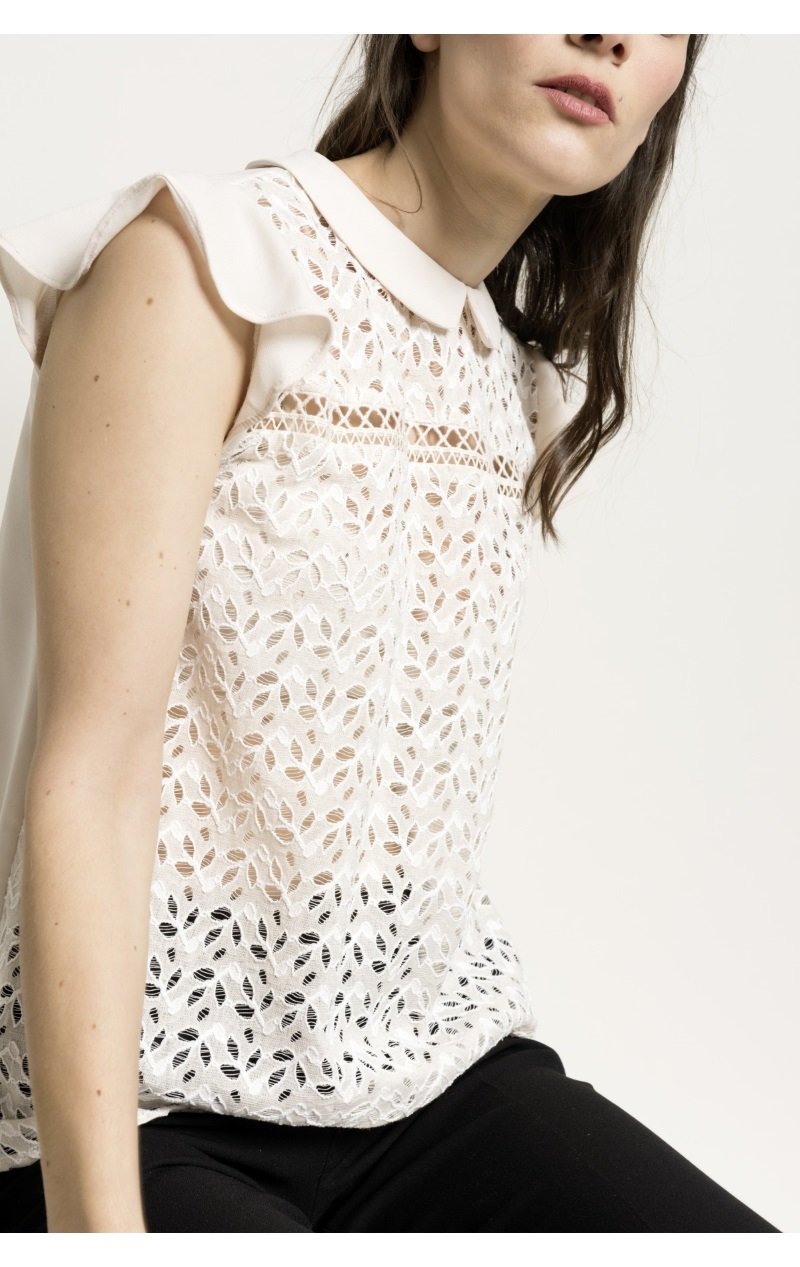
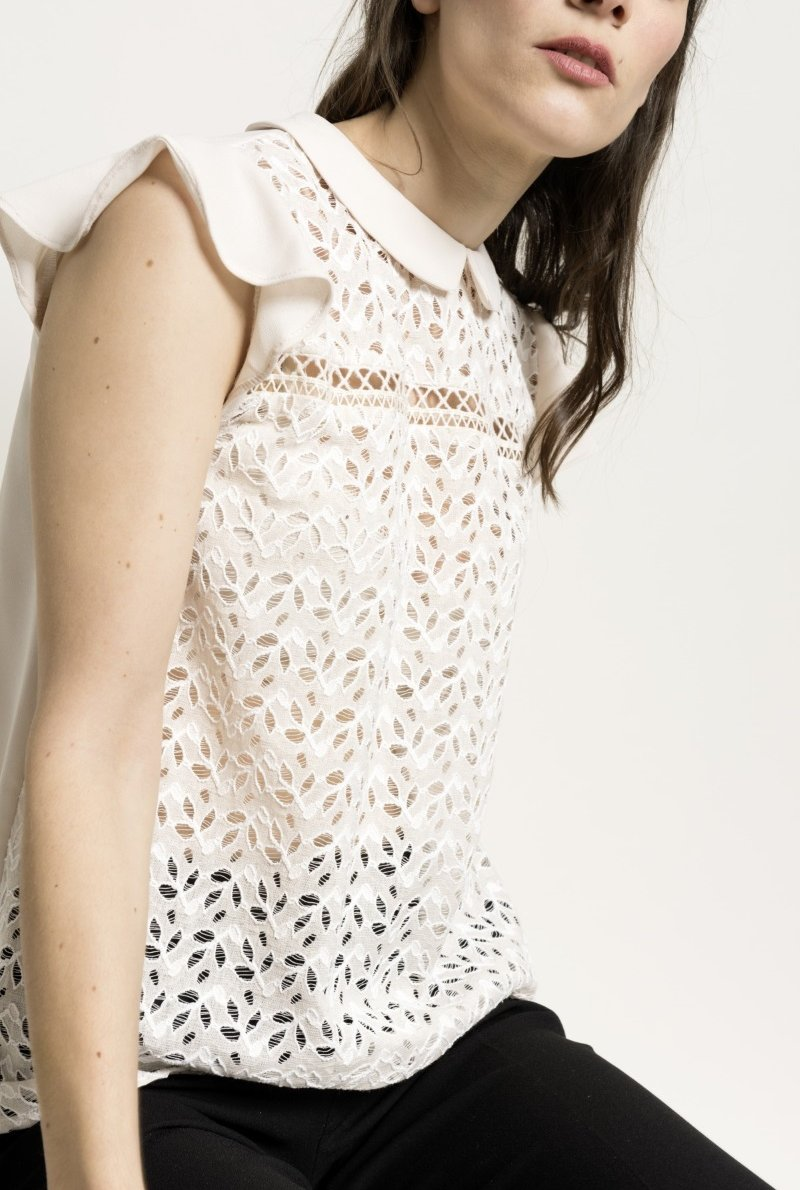
Added grey background to tiles

Changed region(s): [[0.0, 0.0, 0.9688, 1.0], [0.375, 0.4353, 0.4375, 0.4664], [0.0, 0.342, 0.0312, 0.3731]]

diff --git a/_includes/partials/find_item.html b/_includes/partials/find_item.html
@@ -1,6 +1,6 @@
 <div class="grid-item">
   <a href="{{ item.url | relative_url | replace: '/index.html', '' }}">
-    <div style="position; absolute;">
+    <div style="position; absolute; background-color: #fcfcfc;">
       <img src="{{ item.image }}" />
       {% if item.is_in_bag == true %}
         <span class="tag is-warning" style="position: absolute; top: .5rem; right: .5rem; color: #fff; border-radius: 50%; width: 2rem; height: 2rem; border: solid 2px #fff;">
